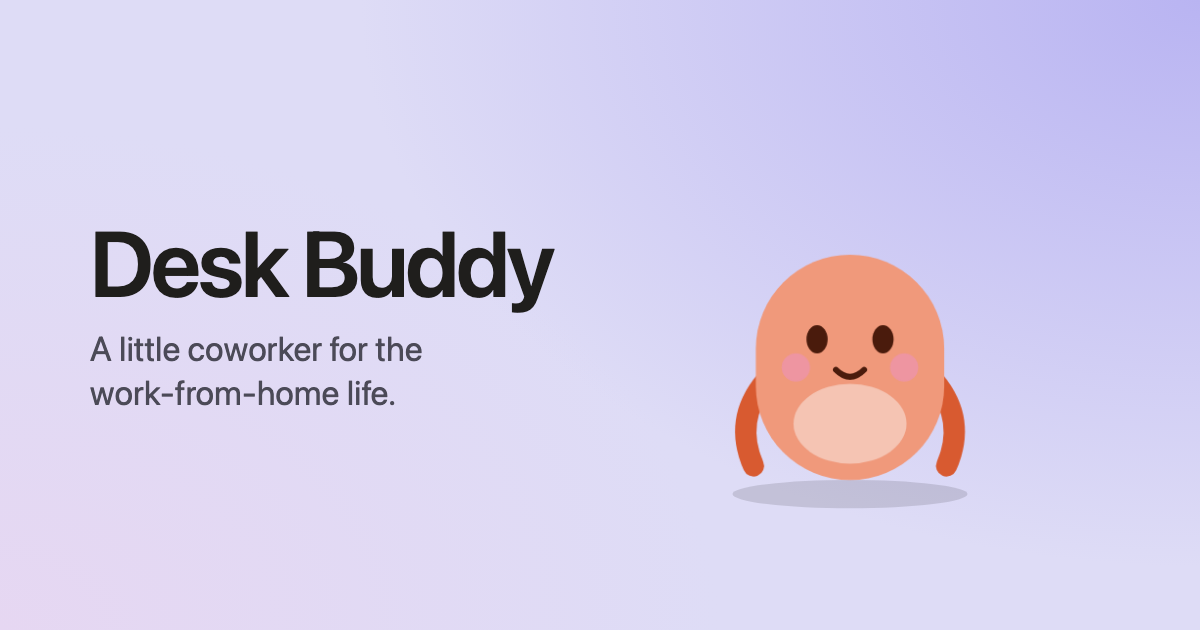
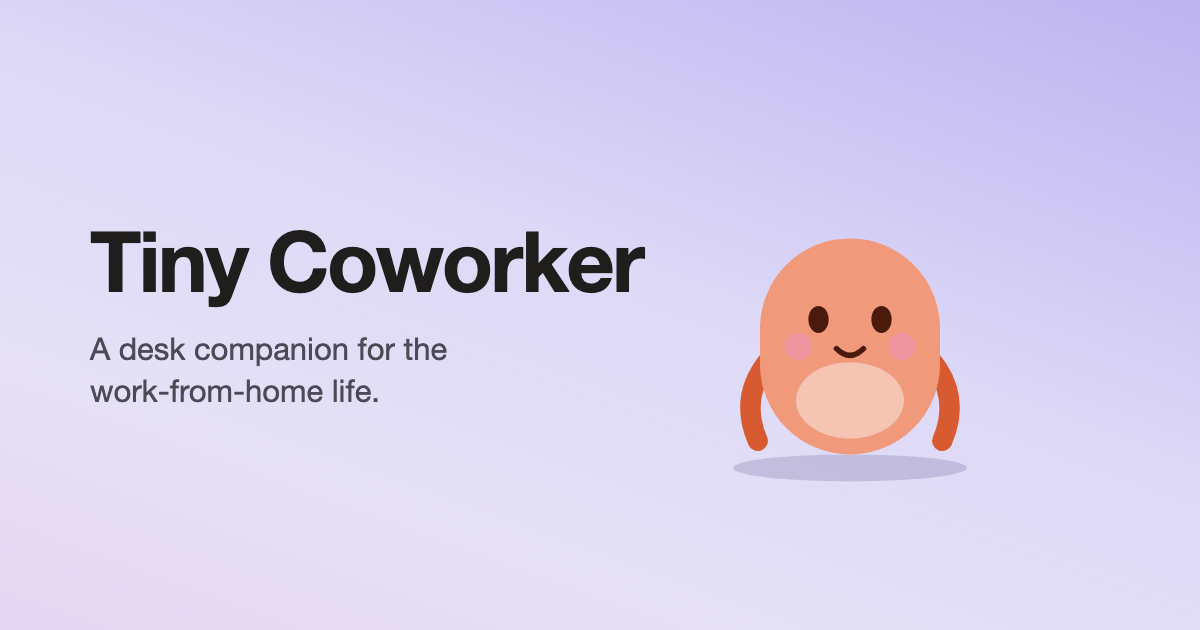
rename the app to Tiny Coworker
- App name, window and settings titles, menu bar tooltip and Quit item, notifications,
  page title, share tags, share image (regenerated; source in assets/og-image.html)
- Package and Rust crate names updated
- The internal app identifier and saved-settings keys are unchanged, so existing
  settings, window position and notification permission carry over

diff --git a/assets/og-image.html b/assets/og-image.html
@@ -1,0 +1,21 @@
+<!-- Source for public/og.png (the 1200x630 share preview). Regenerate with:
+     "/Applications/Google Chrome.app/Contents/MacOS/Google Chrome" --headless=new --hide-scrollbars --force-device-scale-factor=1 --window-size=1200,630 --screenshot=public/og.png "file://$PWD/assets/og-image.html" -->
+<!doctype html><html><head><meta charset="utf-8"><style>
+html,body{margin:0;width:1200px;height:630px;overflow:hidden}
+body{background:linear-gradient(200deg,#bdb3f0 0%,#ddd9f7 45%,#e6e1f6 75%,#e4d6f1 100%);font-family:-apple-system,"SF Pro Display","Helvetica Neue",sans-serif;display:flex;align-items:center}
+.copy{margin-left:90px;width:560px}
+h1{margin:0;font-size:84px;font-weight:700;letter-spacing:-2.5px;color:#1f1e1c;line-height:1}
+p{margin:26px 0 0;font-size:31px;line-height:1.35;color:#4b4a56}
+svg{position:absolute;left:715px;top:225px}
+</style></head><body>
+<div class="copy"><h1>Tiny Coworker</h1><p>A desk companion for the<br>work-from-home life.</p></div>
+<svg width="270" height="290" viewBox="40 60 120 125">
+ <ellipse cx="100" cy="166" rx="52" ry="6" fill="rgba(60,50,110,.18)"/>
+ <path d="M64 118 Q50.5 134.4 59 154" stroke="#D85A30" stroke-width="9" fill="none" stroke-linecap="round"/>
+ <path d="M136 118 Q149.5 134.4 141 154" stroke="#D85A30" stroke-width="9" fill="none" stroke-linecap="round"/>
+ <rect x="60" y="64" width="80" height="96" rx="40" fill="#F0997B"/>
+ <ellipse cx="100" cy="136" rx="24" ry="17" fill="#F5C4B3"/>
+ <ellipse cx="86" cy="100" rx="4.5" ry="6" fill="#4A1B0C"/><ellipse cx="114" cy="100" rx="4.5" ry="6" fill="#4A1B0C"/>
+ <circle cx="77" cy="112" r="6" fill="#ED93B1" opacity=".7"/><circle cx="123" cy="112" r="6" fill="#ED93B1" opacity=".7"/>
+ <path d="M94 113 Q100 119 106 113" stroke="#4A1B0C" stroke-width="2.5" fill="none" stroke-linecap="round"/>
+</svg></body></html>

diff --git a/src/desktop/index.ts b/src/desktop/index.ts
@@ -85,7 +85,7 @@ export async function startDesktop(ctx: DesktopContext): Promise<void> {
  * (visible window, Dock icon, clicks not passing through).
  */
 export async function recoverDesktop(error: unknown): Promise<void> {
-  console.error('Desk Buddy desktop startup failed', error);
+  console.error('Tiny Coworker desktop startup failed', error);
   const win = getCurrentWindow();
   await Promise.allSettled([
     invoke('set_dock_visible', { visible: true }),
@@ -96,7 +96,7 @@ export async function recoverDesktop(error: unknown): Promise<void> {
 
 /** Fire-and-forget Tauri calls: log failures instead of leaving unhandled rejections. */
 function warnOnError(p: Promise<unknown>): void {
-  p.catch((e) => console.warn('Desk Buddy:', e));
+  p.catch((e) => console.warn('Tiny Coworker:', e));
 }
 
 /** Drag the window by the buddy or the time; buttons and inputs keep working. */
@@ -123,7 +123,7 @@ async function placeWindow(store: StorageLike): Promise<void> {
       return;
     }
   } catch (e) {
-    console.warn('Desk Buddy: could not restore the window position', e);
+    console.warn('Tiny Coworker: could not restore the window position', e);
   }
   await win.center();
 }
@@ -131,7 +131,7 @@ async function placeWindow(store: StorageLike): Promise<void> {
 async function notify(body: string): Promise<void> {
   let granted = await isPermissionGranted();
   if (!granted) granted = (await requestPermission()) === 'granted';
-  if (granted) sendNotification({ title: 'Desk Buddy', body });
+  if (granted) sendNotification({ title: 'Tiny Coworker', body });
 }
 
 function debounce<T>(fn: (arg: T) => void, ms: number): (arg: T) => void {

diff --git a/src/desktop/tray.ts b/src/desktop/tray.ts
@@ -51,17 +51,17 @@ export async function createTray(d: TrayDeps): Promise<{ refresh(): void }> {
       dock,
       await separator(),
       await MenuItem.new({ id: 'settings', text: 'Settings…', action: () => void openSettingsWindow() }),
-      await MenuItem.new({ id: 'quit', text: 'Quit Desk Buddy', action: () => void invoke('quit_app') }),
+      await MenuItem.new({ id: 'quit', text: 'Quit Tiny Coworker', action: () => void invoke('quit_app') }),
     ],
   });
 
   // A dev reload re-runs this; remove the previous item instead of stacking a second one.
-  await (await TrayIcon.getById('desk-buddy'))?.close();
+  await (await TrayIcon.getById('tiny-coworker'))?.close();
   const tray = await TrayIcon.new({
-    id: 'desk-buddy',
+    id: 'tiny-coworker',
     icon: await trayIconPng(),
     iconAsTemplate: true,
-    tooltip: 'Desk Buddy',
+    tooltip: 'Tiny Coworker',
     menu,
     menuOnLeftClick: true,
   });
@@ -98,7 +98,7 @@ export async function openSettingsWindow(): Promise<void> {
   }
   new WebviewWindow('settings', {
     url: 'settings.html',
-    title: 'Desk Buddy Settings',
+    title: 'Tiny Coworker Settings',
     width: 400,
     height: 540,
     center: true,

diff --git a/index.html b/index.html
@@ -5,13 +5,13 @@
     <meta name="viewport" content="width=device-width, initial-scale=1" />
     <meta name="color-scheme" content="light dark" />
     <link rel="icon" type="image/svg+xml" href="/favicon.svg" />
-    <title>Desk Buddy</title>
+    <title>Tiny Coworker</title>
     <meta
       name="description"
-      content="A little coworker for the work-from-home life. Desk Buddy is a virtual companion designed to make focused work feel less lonely, using the Pomodoro method to balance productive sessions with regular breaks."
+      content="A desk companion for the work-from-home life. Tiny Coworker is a virtual companion designed to make focused work feel less lonely, using the Pomodoro method to balance productive sessions with regular breaks."
     />
     <meta property="og:type" content="website" />
-    <meta property="og:title" content="Desk Buddy" />
+    <meta property="og:title" content="Tiny Coworker" />
     <meta
       property="og:description"
       content="A little coworker for the work-from-home life. A virtual companion that makes focused work feel less lonely, using the Pomodoro method."

diff --git a/src/ui/view.ts b/src/ui/view.ts
@@ -21,7 +21,7 @@ export interface ViewModel {
 const MARKUP = `
 <main class="app">
   <div class="app-top">
-    <span class="app-name">Desk Buddy</span>
+    <span class="app-name">Tiny Coworker</span>
     <div class="icon-row">
       <button class="icon-btn" data-action="settings" aria-label="Settings">${SETTINGS_ICON}</button>
       <button class="icon-btn" data-action="mute" aria-label="Mute chime" aria-pressed="false">${SOUND_ICON}</button>
@@ -81,7 +81,7 @@ export function createView(root: HTMLElement, buddyEl: HTMLElement, h: ViewHandl
       setText(timeEl, time);
       setText(toggleBtn, status === 'running' ? 'Pause' : status === 'paused' ? 'Resume' : 'Start');
       setText(todayEl, `${m.todayCount} today`);
-      const title = status === 'ready' ? 'Desk Buddy' : `${time} · ${label}`;
+      const title = status === 'ready' ? 'Tiny Coworker' : `${time} · ${label}`;
       if (document.title !== title) document.title = title;
       const nextLive = `${phase}/${status}`;
       if (nextLive !== liveKey) {

diff --git a/settings.html b/settings.html
@@ -5,7 +5,7 @@
     <meta name="viewport" content="width=device-width, initial-scale=1" />
     <meta name="color-scheme" content="light dark" />
     <link rel="icon" type="image/svg+xml" href="/favicon.svg" />
-    <title>Desk Buddy Settings</title>
+    <title>Tiny Coworker Settings</title>
   </head>
   <body>
     <script type="module" src="/src/desktop/settings-window.ts"></script>

diff --git a/src-tauri/src/main.rs b/src-tauri/src/main.rs
@@ -2,5 +2,5 @@
 #![cfg_attr(not(debug_assertions), windows_subsystem = "windows")]
 
 fn main() {
-  desk_buddy_lib::run();
+  tiny_coworker_lib::run();
 }
